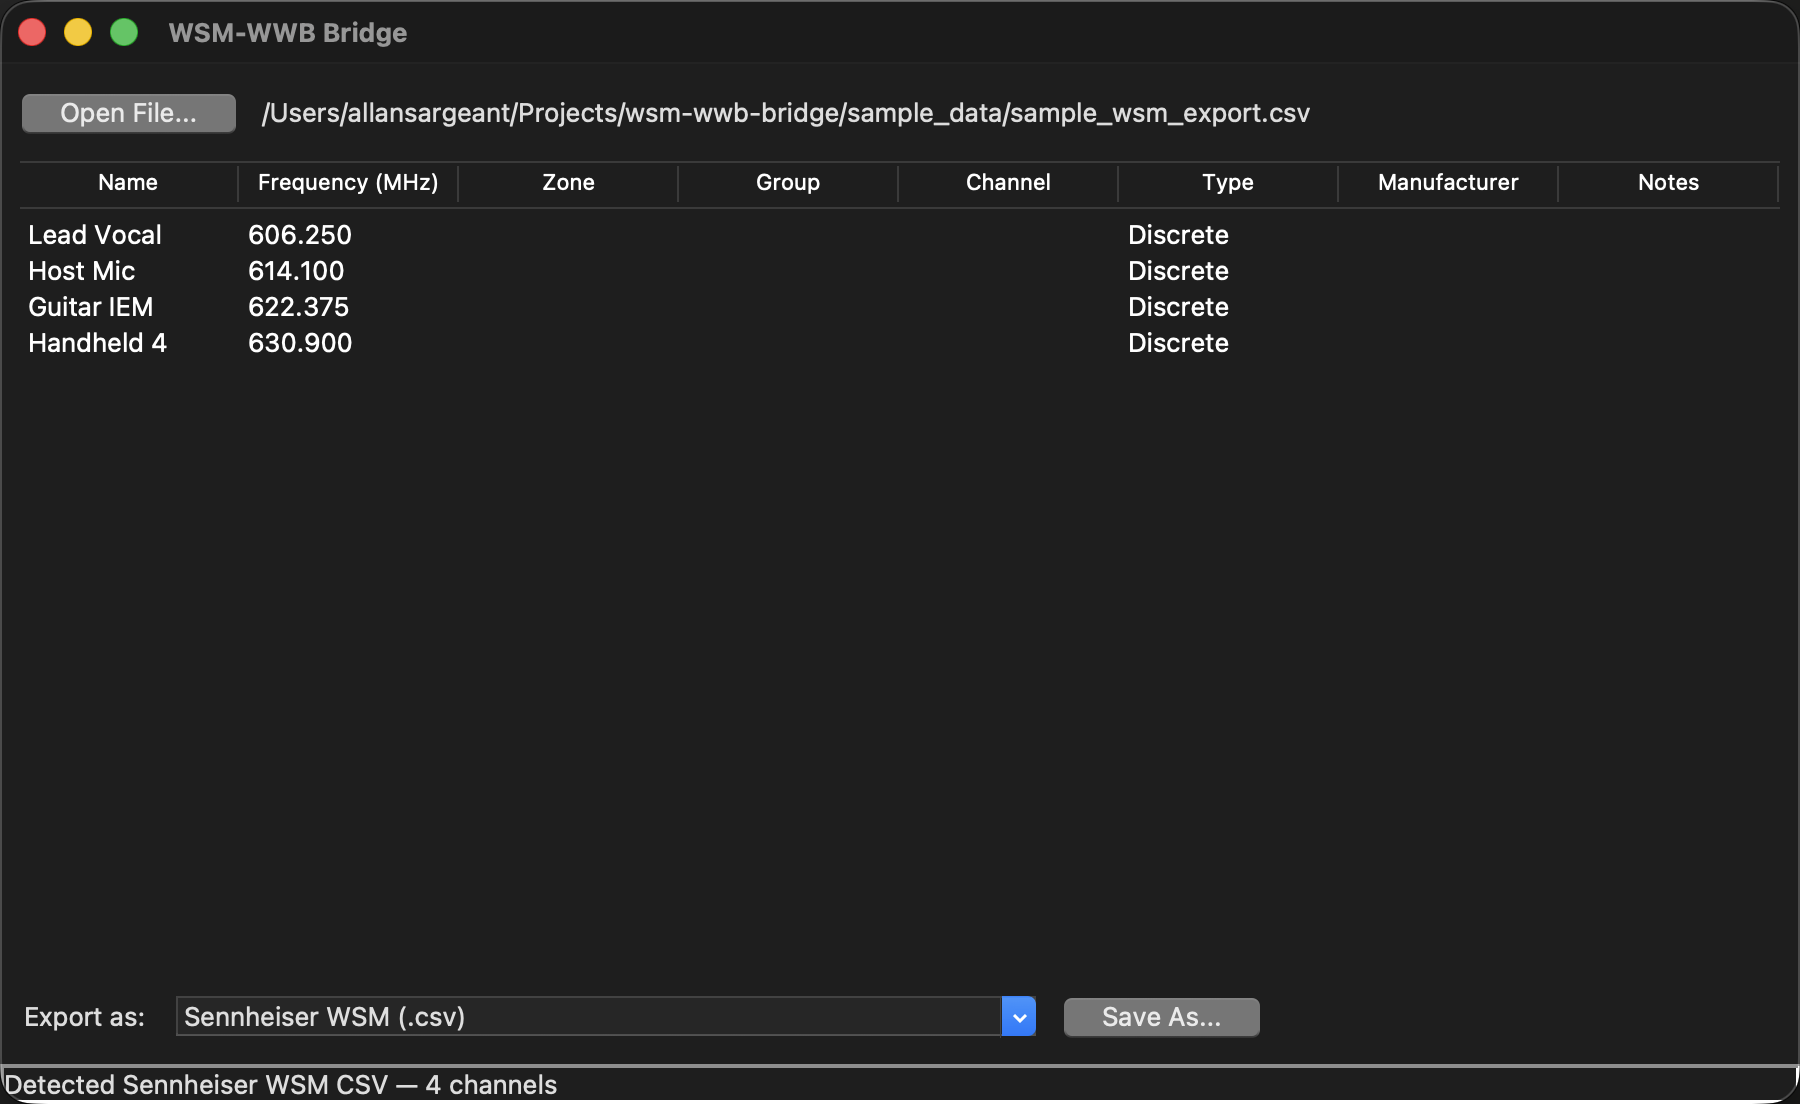
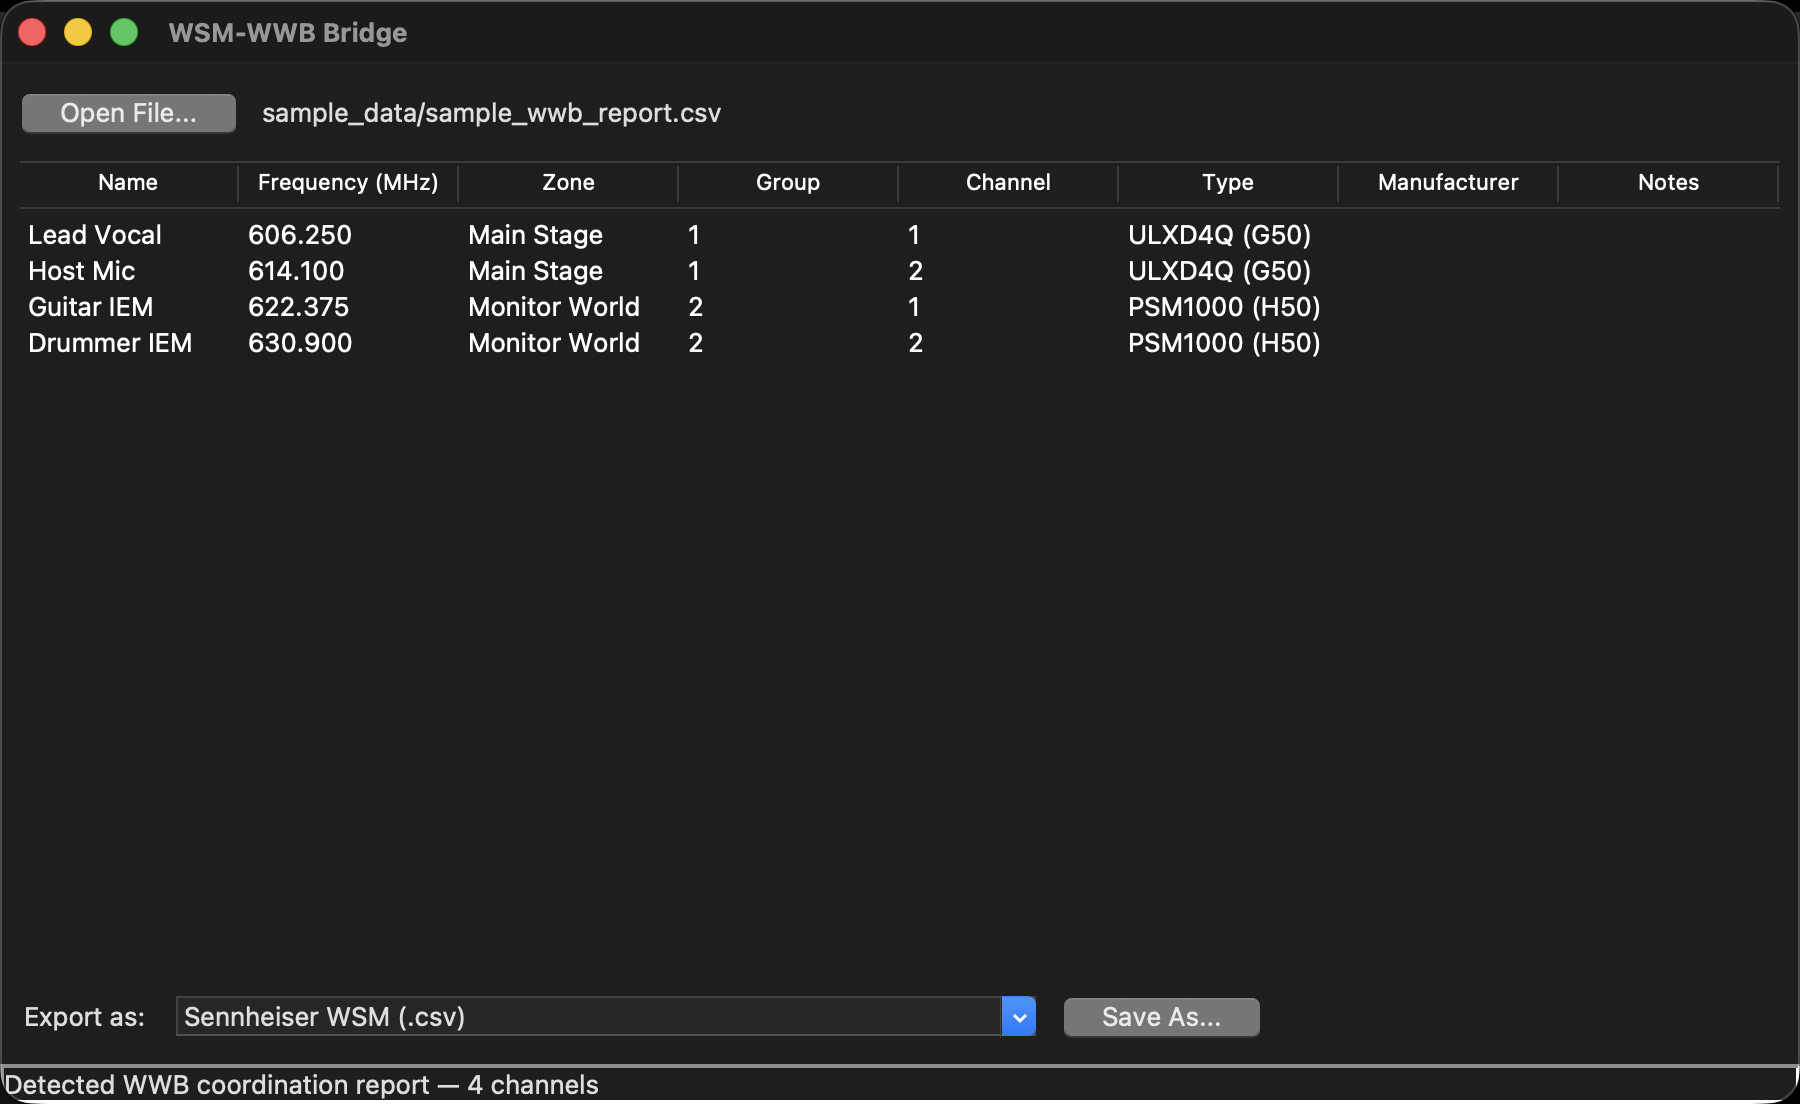
Add open-file argument support; refresh README badges and screenshot
- gui.py: App/main() accept an optional file path (CLI arg or drag-drop
  onto the .app icon) to open immediately, via a new load_path() shared
  between that and the existing Open File... dialog flow. run.sh and the
  .app launcher forward arguments through.
- New sample_data/sample_wwb_report.csv: a small synthetic WWB
  coordination report with two zones and assigned groups/channels --
  more representative than the existing samples (Zone/Group/Channel all
  populated at once), used for the new screenshot and covered by tests.
- Replaced the README screenshot with one of this richer example,
  captured via a region-targeted screencapture of just the app window
  (not a full-desktop capture).
- Added CI/release/license badges to the README.

diff --git a/tests/test_sample_data.py b/tests/test_sample_data.py
@@ -7,6 +7,7 @@ from pathlib import Path
 from wsm_wwb_bridge.detect import detect_format
 from wsm_wwb_bridge.wsm import read_wsm_csv
 from wsm_wwb_bridge.wwb import read_wwb_file
+from wsm_wwb_bridge.wwb_report import read_wwb_report_csv
 
 SAMPLE_DATA = Path(__file__).resolve().parent.parent / "sample_data"
 
@@ -39,6 +40,20 @@ class TestSampleWwbFrequencyList(unittest.TestCase):
         cl = read_wwb_file(_read("sample_wwb_frequency_list.txt"))
         self.assertEqual(len(cl), 4)
         self.assertAlmostEqual(cl.channels[0].frequency_mhz, 606.250)
+
+
+class TestSampleWwbReport(unittest.TestCase):
+    """Used as the README screenshot fixture -- also exercised as a real test."""
+
+    def test_detects_as_wwb_report(self):
+        self.assertEqual(detect_format(_read("sample_wwb_report.csv")), "wwb-report")
+
+    def test_parses_four_channels_across_two_zones(self):
+        cl = read_wwb_report_csv(_read("sample_wwb_report.csv"))
+        self.assertEqual(len(cl), 4)
+        zones = {c.zone for c in cl}
+        self.assertEqual(zones, {"Main Stage", "Monitor World"})
+        self.assertTrue(all(not c.is_backup for c in cl))
 
 
 if __name__ == "__main__":

diff --git a/wsm_wwb_bridge/gui.py b/wsm_wwb_bridge/gui.py
@@ -92,7 +92,7 @@ class ColumnMappingDialog(tk.Toplevel):
 
 
 class App:
-    def __init__(self, master):
+    def __init__(self, master, initial_path=None):
         self.master = master
         master.title("WSM-WWB Bridge")
         master.geometry("900x520")
@@ -102,6 +102,9 @@ class App:
 
         self._build_menu()
         self._build_layout()
+
+        if initial_path:
+            self.load_path(initial_path)
 
     def _build_menu(self):
         menubar = tk.Menu(self.master)
@@ -169,6 +172,9 @@ class App:
         )
         if not path:
             return
+        self.load_path(path)
+
+    def load_path(self, path):
         try:
             with open(path, "r", encoding="utf-8-sig") as f:
                 text = f.read()
@@ -250,8 +256,11 @@ class App:
 
 
 def main():
+    import sys
+
+    initial_path = sys.argv[1] if len(sys.argv) > 1 else None
     root = tk.Tk()
-    App(root)
+    App(root, initial_path=initial_path)
     root.mainloop()
 
 

diff --git a/README.md b/README.md
@@ -1,5 +1,9 @@
 # WSM-WWB Bridge
 
+[![tests](https://github.com/allansargeant/wsm-wwb-bridge/actions/workflows/test.yml/badge.svg)](https://github.com/allansargeant/wsm-wwb-bridge/actions/workflows/test.yml)
+[![release](https://github.com/allansargeant/wsm-wwb-bridge/actions/workflows/release.yml/badge.svg)](https://github.com/allansargeant/wsm-wwb-bridge/actions/workflows/release.yml)
+[![license: MIT](https://img.shields.io/badge/license-MIT-blue.svg)](LICENSE)
+
 > **AI-assisted project.** This codebase was created with [Claude](https://claude.com/claude-code)
 > (Anthropic), directed and reviewed by a human author. Every format parser was
 > reverse-engineered from real exports rather than from official documentation, since
@@ -10,7 +14,7 @@ Moves radio mic frequency coordination data between Shure Wireless Workbench
 (WWB) and Sennheiser Wireless Systems Manager (WSM) — plus any other tool
 that can produce a CSV, via a generic column-mapping importer.
 
-![WSM-WWB Bridge showing a loaded Sennheiser WSM export with 4 channels](docs/screenshot.png)
+![WSM-WWB Bridge showing a loaded WWB coordination report with 4 channels across two RF zones](docs/screenshot.png)
 
 Everything routes through one internal channel model, so any supported input
 format can be re-exported as any supported output format:
@@ -35,6 +39,9 @@ flowchart LR
 ./run.sh
 ```
 
+Optionally pass a file to open it immediately: `./run.sh sample_data/sample_wwb_report.csv`.
+On macOS, dropping a file onto the `.app` icon does the same thing.
+
 On macOS, run via `run.sh` rather than calling `python3 main.py` directly if
 your `python3` resolves to Apple's system/Command Line Tools install — it
 bundles Tcl/Tk 8.5.9, which has well-documented bugs on modern macOS
@@ -51,7 +58,7 @@ ships with the standard macOS/python.org installer).
 ./test.sh
 ```
 
-121 tests covering every parser/writer — frequency notation edge cases,
+123 tests covering every parser/writer — frequency notation edge cases,
 the WWB report's zone/primary/backup state machine, WWB's native XML
 (`.shw`/`.cws`), WSM's native `.wsm` project file (including the
 `AllocatedFrequency` vs. decoy `CurrentFrequency` distinction), the WSM